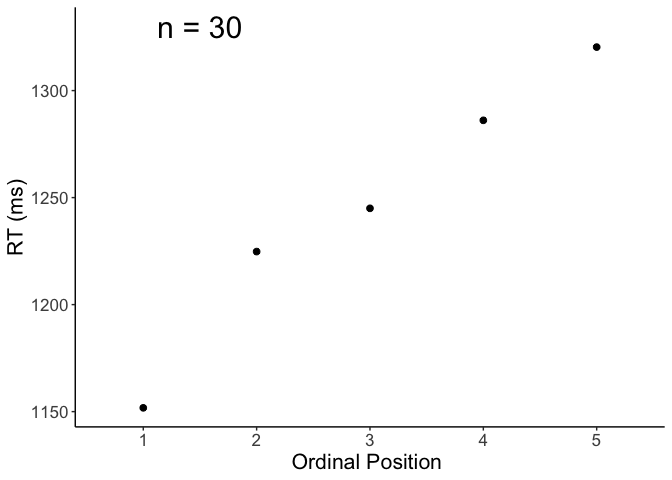
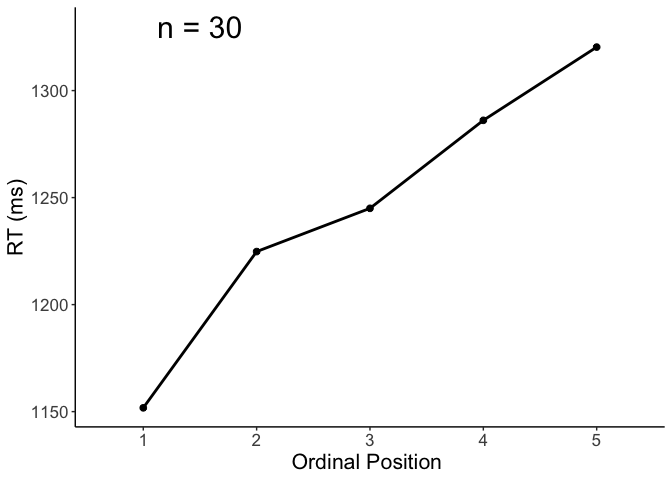
Updated plotting layout

diff --git a/scripts/06_CSI_online_typing_comparison_to_verbal_naming.md b/scripts/06_CSI_online_typing_comparison_to_verbal_naming.md
@@ -66,8 +66,6 @@ Load packages
     library(ggplot2)
     library(sjPlot)
 
-    ## Install package "strengejacke" from GitHub (`devtools::install_github("strengejacke/strengejacke")`) to load all sj-packages at once!
-
     options(scipen=999)
 
     rm(list = ls())
@@ -536,7 +534,8 @@ Observations
     # save model output
     tab_model(m1.nested,transform = NULL,
               show.re.var = F, show.stat = T,show.r2 = F,show.icc = F,
-              title = "GLMM (Gamma distribution) with continuous predictor",
+              title = 
+                "Nested GLMM (Gamma distribution) with continuous predictor",
               pred.labels = c("(Intercept)", "Experiment", 
                               "Verbal: Ordinal Position", 
                               "Typing: Ordinal Position"),
@@ -549,7 +548,7 @@ Observations
 
 <table style="border-collapse:collapse; border:none;">
 <caption style="font-weight: bold; text-align:left;">
-GLMM (Gamma distribution) with continuous predictor
+Nested GLMM (Gamma distribution) with continuous predictor
 </caption>
 <tr>
 <th style="border-top: double; text-align:center; font-style:normal; font-weight:bold; padding:0.2cm;  text-align:left; ">

diff --git a/scripts/05_CSI_online_typing_plotting_and_analysis.md b/scripts/05_CSI_online_typing_plotting_and_analysis.md
@@ -169,7 +169,7 @@ huxtable::quick_docx(huxt_word,
 ``` r
 (plot_rt <- df %>% filter(!is.na(correct)) %>% 
    filter(category != "Filler") %>% 
-    ggplot(., aes(x=PosOr, y=timing.01)) +
+    ggplot(., aes(x=PosOr, y=timing.01, group = correct)) +
     stat_summary(fun=mean,  geom="point", size = 2)+
     stat_summary(fun=mean,  geom="line", size = 1) +
     apatheme+
@@ -177,9 +177,6 @@ huxtable::quick_docx(huxt_word,
    annotate(geom="text", x=1.5, y=1330, label="n = 30", 
            color="black", size = 8))
 ```
-
-    ## geom_path: Each group consists of only one observation. Do you need to adjust
-    ## the group aesthetic?
 
 ![](05_CSI_online_typing_plotting_and_analysis_files/figure-gfm/plot_rt-1.png)<!-- -->
 
@@ -189,12 +186,6 @@ ggsave(plot_rt, filename =
          here::here("figures", filename),
        width = 18, height = 13, units = "cm", 
        dpi = 300, device = cairo_pdf)
-```
-
-    ## geom_path: Each group consists of only one observation. Do you need to adjust
-    ## the group aesthetic?
-
-``` r
 embedFonts(file = here::here("figures", filename))
 ```
 
